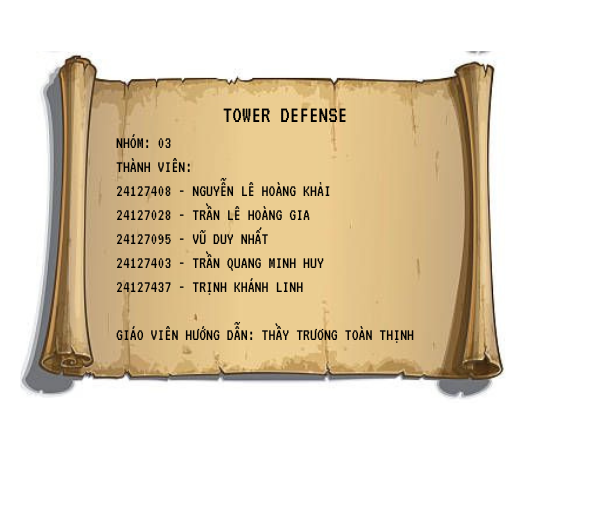
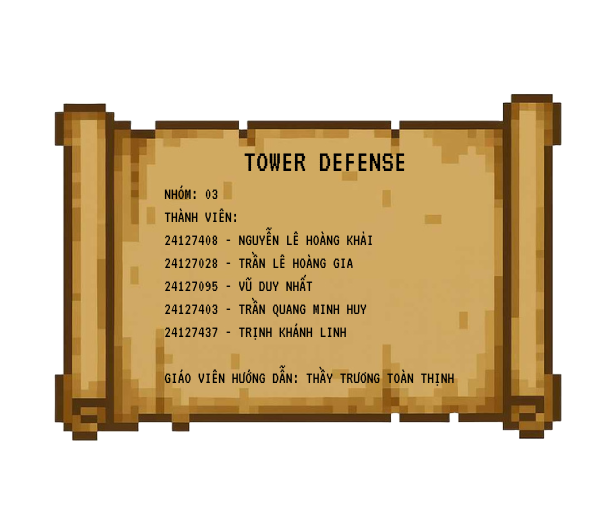
Add AboutUs and Rules pop-up

diff --git a/Game.cpp b/Game.cpp
@@ -674,7 +674,36 @@ void Game::initUIFlow()
 
 	// -- AboutUs (Pop-up) --
 	{
-		
+		auto panel = m_scenes[AppState::AboutUs].addEntity("AboutPanel");
+		panel->cSet = make_shared<CSet>("IMGS/About.png");
+		panel->cPosition = make_shared<CPosition>(Vector2f(m_windowConfig.width / 2.f, m_windowConfig.height / 2.f));
+		panel->cSet->sprite.setOrigin(panel->cSet->sprite.getLocalBounds().width / 2.f, panel->cSet->sprite.getLocalBounds().height / 2.f);
+		panel->cSet->sprite.setScale(1.5f, 1.5f);
+
+
+		auto backBtn = m_scenes[AppState::AboutUs].addEntity("BackAbout");
+		backBtn->cSet = make_shared<CSet>("IMGS/back.png");
+		backBtn->cPosition = make_shared<CPosition>(Vector2f(m_windowConfig.width / 2.f, m_windowConfig.height / 2.f + 200.f));
+		backBtn->cInput = make_shared<CInput>([this]() {
+			m_state1 = AppState::SettingsMenu;
+			}
+		);
+	}
+
+	// -- Rules (Pop - up) --
+	{
+		auto panel = m_scenes[AppState::Rules].addEntity("RulesPanel");
+		panel->cSet = make_shared<CSet>("IMGS/GameRules.png");
+		panel->cPosition = make_shared<CPosition>(Vector2f(m_windowConfig.width / 2.f, m_windowConfig.height / 2.f));
+		panel->cSet->sprite.setOrigin(panel->cSet->sprite.getLocalBounds().width / 2.f, panel->cSet->sprite.getLocalBounds().height / 2.f);
+		panel->cSet->sprite.setScale(1.5f, 1.5f);
+
+		auto backBtn = m_scenes[AppState::Rules].addEntity("BackRules");
+		backBtn->cSet = make_shared<CSet>("IMGS/back.png");
+		backBtn->cPosition = make_shared<CPosition>(Vector2f(m_windowConfig.width / 2.f, m_windowConfig.height / 2.f + 200.f));
+		backBtn->cInput = make_shared<CInput>([this]() {
+			m_state1 = AppState::SettingsMenu;
+			});
 	}
 
 	// -- MapSelect --
@@ -940,6 +969,18 @@ void Game::sRender(float& deltaTime)
 		m_window.draw(m_inputText);
 	}
 
+	//// Hiển thị AboutUs/Rules
+	//if (m_state1 == AppState::AboutUs || m_state1 == AppState::Rules)
+	//{
+	//	for (auto& e : m_scenes[m_state1].getEntities())
+	//	{
+	//		if (e->cSet && e->cPosition)
+	//			e->cSet->sprite.setPosition(e->cPosition->position);
+
+	//		m_window.draw(e->cSet->sprite);
+	//	}
+	//}
+
 	m_window.display();
 }
 
@@ -1048,6 +1089,23 @@ void Game::sUserInput()
 					{
 						clickedSlider = true;
 						break;
+					}
+				}
+			}
+
+			// Intput cho about us và rules
+			if (m_state1 == AppState::AboutUs || m_state1 == AppState::Rules)
+			{
+				if (event.type == Event::MouseButtonPressed && event.mouseButton.button == Mouse::Left)
+				{
+					for (auto& e : m_scenes[m_state1].getEntities())
+					{
+						if (e->cSet && e->cInput && e->cSet->sprite.getGlobalBounds().contains(mousePos))
+						{
+							playSfx(m_clickBuffer);
+							e->cInput->onClick();
+							return;
+						}
 					}
 				}
 			}
